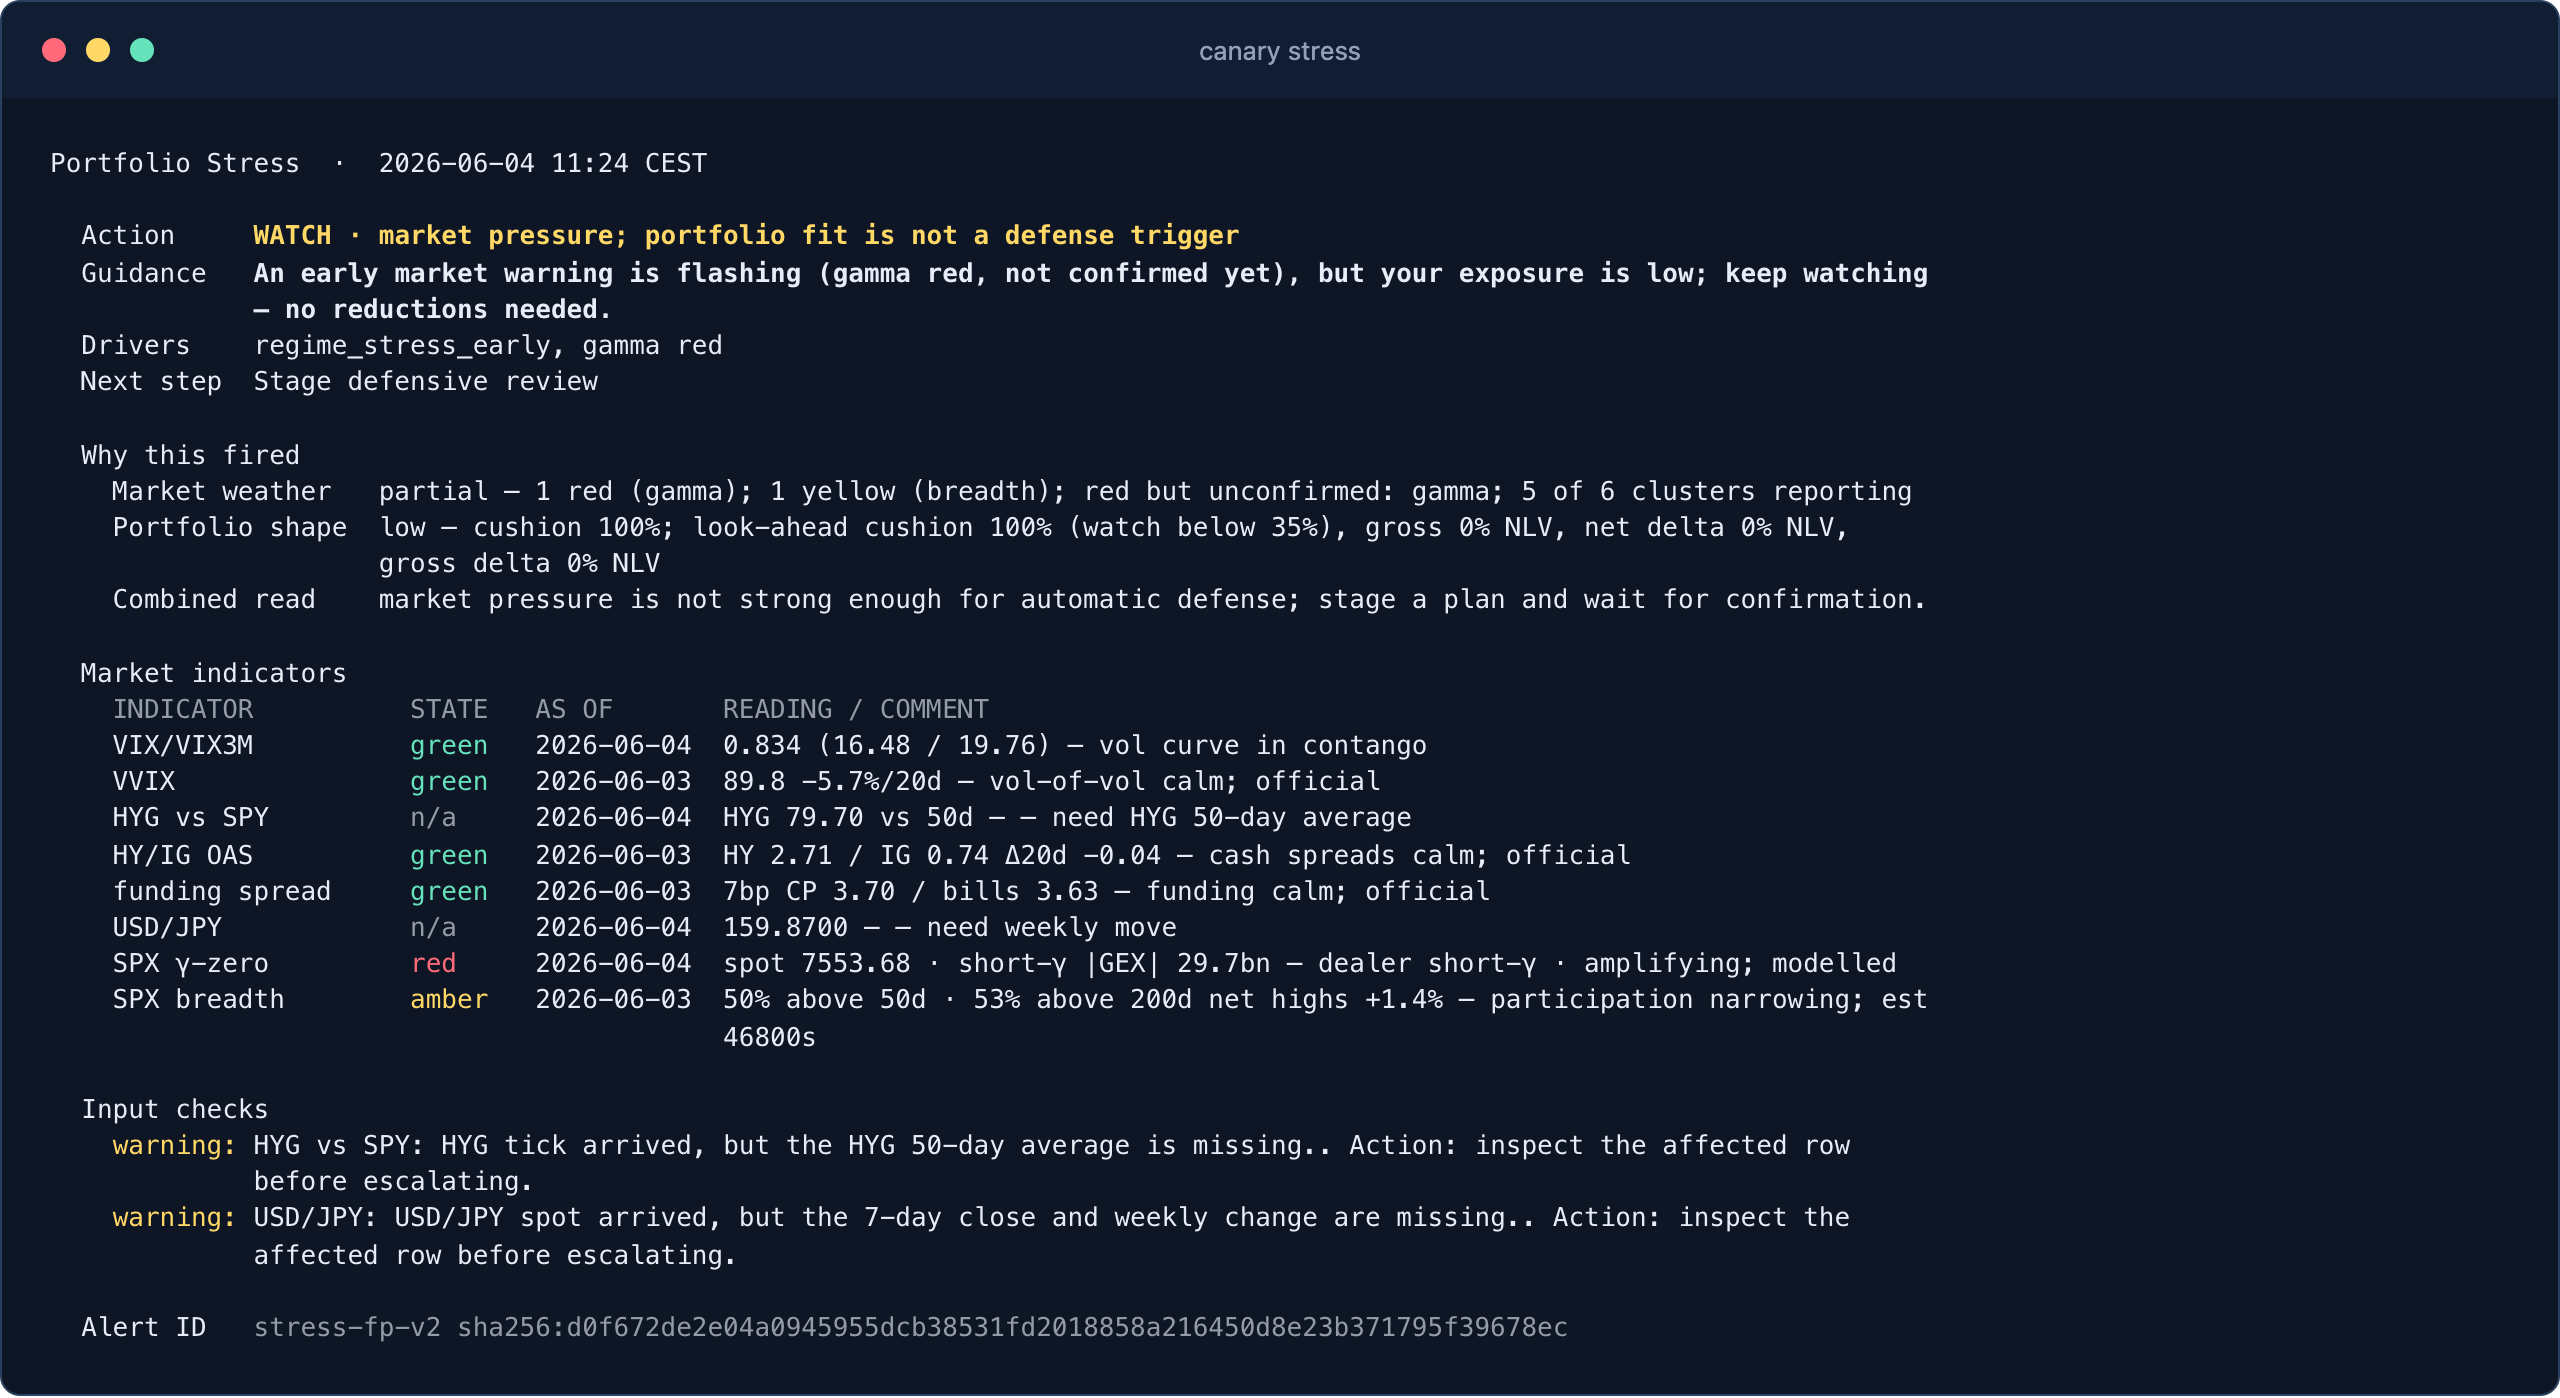
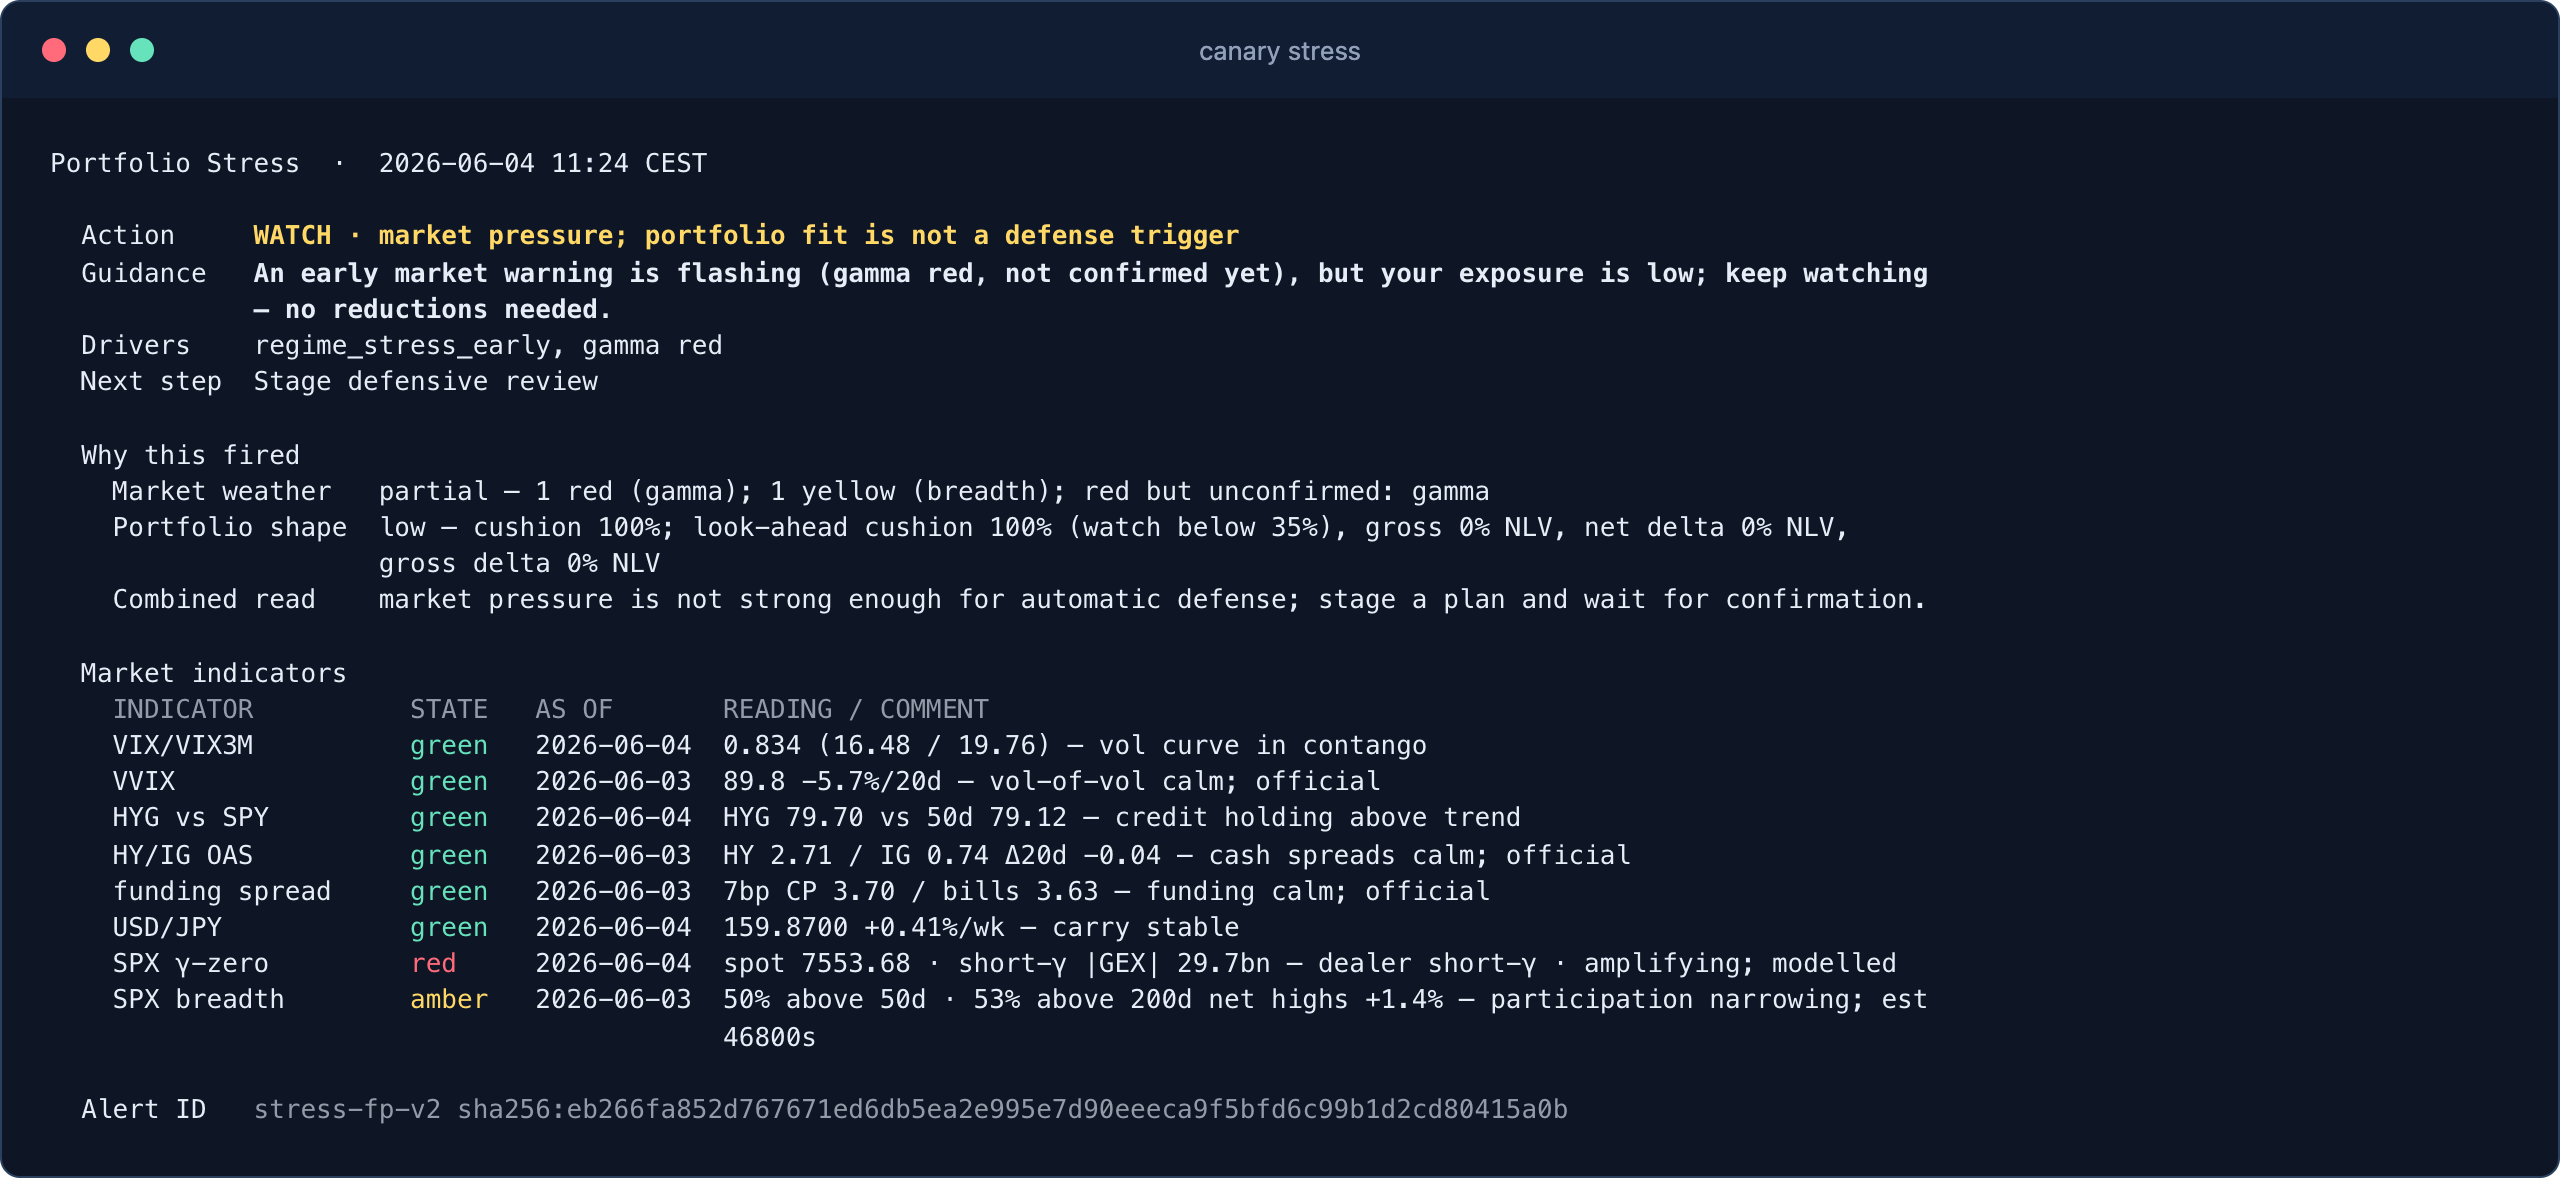
docs(social): healthy-pipeline regime shot and reconciling synthetic desk
The published card and hero embedded the degraded render ('Market state
undefined — snapshot health unavailable', red) because the preview
fixture never set AuthorityHealth and left two indicators unranked; the
fixture now carries a fresh authority projection, per-indicator fresh
cadence verdicts, and complete HYG/USDJPY inputs, so the shot shows the
canary actually working: 'Stress signal present · 6/6 evidence groups
usable · Input health: OK'. positions.png's summary block is now derived
from its own table (513.0 share-equivalents, $39,138.62 dollar delta)
instead of transplanted numbers, and the account/size fixtures join the
synthetic 1.25m-EUR desk used everywhere else.

diff --git a/cmd/_preview/main.go b/cmd/_preview/main.go
@@ -79,27 +79,27 @@ func fixtureAccount() *rpc.AccountResult {
 		AccountID:            "DU0000000",
 		AccountType:          "IB-MARGIN",
 		BaseCurrency:         "EUR",
-		NetLiquidation:       248310.42,
-		BuyingPower:          992841.68,
-		AvailableFunds:       124055.21,
-		ExcessLiquidity:      124055.21,
-		TotalCash:            119084.21,
-		MaintenanceMargin:    24318.10,
-		InitialMargin:        29182.32,
-		GrossPositionValue:   188420.10,
-		UnrealizedPnL:        2418.07,
-		RealizedPnL:          -312.50,
-		Cushion:              0.50,
-		LookAheadInitMargin:  29182.32,
-		LookAheadMaintMargin: 24318.10,
-		LookAheadAvailable:   124055.21,
-		LookAheadExcess:      124055.21,
-		DailyPnL:             f64(1247.30),
-		PnLUnrealizedTotal:   f64(-44485.00),
-		PnLRealizedTotal:     f64(1830.00),
+		NetLiquidation:       1250000.00,
+		BuyingPower:          4800000.00,
+		AvailableFunds:       1100000.00,
+		ExcessLiquidity:      1100000.00,
+		TotalCash:            150000.00,
+		MaintenanceMargin:    25000.00,
+		InitialMargin:        31000.00,
+		GrossPositionValue:   60000.00,
+		UnrealizedPnL:        3113.50,
+		RealizedPnL:          0,
+		Cushion:              0.98,
+		LookAheadInitMargin:  31000.00,
+		LookAheadMaintMargin: 25000.00,
+		LookAheadAvailable:   1100000.00,
+		LookAheadExcess:      1100000.00,
+		DailyPnL:             f64(2340.00),
+		PnLUnrealizedTotal:   f64(25000.00),
+		PnLRealizedTotal:     f64(5000.00),
 		CurrencyExposure: []rpc.CurrencyExposure{
-			{Currency: "USD", NetLiquidationCcy: 92418.07, ExchangeRate: 1.0823, NetLiquidationBase: 85398.92},
-			{Currency: "GBP", NetLiquidationCcy: 12061.40, ExchangeRate: 1.1718, NetLiquidationBase: 14034.83},
+			{Currency: "USD", NetLiquidationCcy: 540000.00, ExchangeRate: 0.9000, NetLiquidationBase: 486000.00},
+			{Currency: "GBP", NetLiquidationCcy: 10000.00, ExchangeRate: 1.1500, NetLiquidationBase: 11500.00},
 		},
 		// AccountResult.DataType is omitempty-emit-empty per the v0.15.0
 		// wire-honesty pass; the field exists on the struct for renderer-
@@ -209,17 +209,21 @@ func fixturePositions() *rpc.PositionsResult {
 				GroupUnrealizedPnL: -705.00,
 			},
 		},
+		// Summary values are derived from the rows above so the rendered
+		// table and summary reconcile: deltas 202 (AAPL) + 405 (NVDA) − 94
+		// (SPY), dollar delta against marks (SPY spot 583.18), greeks as
+		// Σ greek × qty × 100, FX = the 59,161 USD book in EUR × 1%.
 		Portfolio: &rpc.PositionsPortfolio{
-			EffectiveDelta:      f64(1847.0),
-			DollarDelta:         f64(326584.50),
+			EffectiveDelta:      f64(513.0),
+			DollarDelta:         f64(39138.62),
 			DollarDeltaCurrency: "USD",
-			DailyTheta:          f64(-42.18),
+			DailyTheta:          f64(-121.00),
 			DailyThetaCurrency:  "USD",
-			Gamma:               f64(12.4),
-			Vega:                f64(1205.00),
+			Gamma:               f64(19.1),
+			Vega:                f64(654.00),
 			GreeksCoverage:      5,
 			GreeksTotal:         5,
-			FXSensitivityPerPct: f64(-854.32),
+			FXSensitivityPerPct: f64(-546.62),
 			FXBaseCurrency:      "EUR",
 		},
 		AsOf: time.Date(2026, 5, 13, 14, 32, 18, 0, time.UTC),
@@ -343,15 +347,15 @@ func fixtureScan() *rpc.ScanResult {
 // fixtureSize mirrors a typical EUR account sizing a long AAPL trade
 // with a 2R target — covers the full screen including the reward block.
 func fixtureSize() *risk.SizeResult {
-	tgt, r, reward, be := 215.50, 2.0, 4000.0, 1.0/3.0
+	tgt, r, reward, be := 217.50, 2.0, 25000.0, 1.0/3.0
 	return &risk.SizeResult{
 		Symbol: "AAPL", Side: "long",
 		Entry: 207.50, Stop: 202.50, Target: &tgt,
 		RiskPct: 1.0, Lot: 1, FX: 1.0,
-		NLV: 248310.42, BaseCurrency: "EUR",
-		RiskBase: 2483.10, RiskQuote: 2483.10,
+		NLV: 1250000.00, BaseCurrency: "EUR",
+		RiskBase: 12500.00, RiskQuote: 12500.00,
 		PerShareRisk: 5.00,
-		Shares:       496, Notional: 102920.00, MaxLoss: 2480.00,
+		Shares:       2500, Notional: 518750.00, MaxLoss: 12500.00,
 		R: &r, RewardQuote: &reward, BreakevenWinRate: &be,
 		Status: "ok",
 	}
@@ -482,8 +486,8 @@ func fixtureRegime() *rpc.RegimeSnapshotResult {
 		SpecDoc: "https://osauer.dev/canary/docs/internals/regime-dashboard.html",
 		Summary: rpc.RegimeSummary{
 			Label:             "Stress signal present",
-			Evidence:          "3 green clusters / 1 yellow cluster / 1 red cluster / 1 waiting",
-			IndicatorEvidence: "4 green / 1 yellow / 1 red / 2 unranked",
+			Evidence:          "4 green clusters / 1 yellow cluster / 1 red cluster",
+			IndicatorEvidence: "6 green / 1 yellow / 1 red",
 			PunchLine:         "Stress is visible, but not broad enough to dominate the read.",
 			Confidence:        "medium",
 			DominantRisks:     []string{"dealer gamma", "breadth"},
@@ -494,6 +498,7 @@ func fixtureRegime() *rpc.RegimeSnapshotResult {
 				Band:       "green",
 				BandReason: "vol curve in contango",
 				AsOf:       previewAsOf("live", now, rpc.FreshnessLive, "IBKR index ticks"),
+				Freshness:  &rpc.RegimeFreshness{Class: rpc.RegimeFreshnessFresh},
 			},
 			Status:       rpc.RegimeStatusOK,
 			VIX:          f64(16.48),
@@ -511,6 +516,7 @@ func fixtureRegime() *rpc.RegimeSnapshotResult {
 				Band:       "green",
 				BandReason: "vol-of-vol calm",
 				AsOf:       previewDateAsOf("close D-1", officialDate, rpc.FreshnessDerived, "Cboe VVIX daily file"),
+				Freshness:  &rpc.RegimeFreshness{Class: rpc.RegimeFreshnessFresh},
 			},
 			Status:       rpc.RegimeStatusOK,
 			Symbol:       "VVIX",
@@ -523,28 +529,30 @@ func fixtureRegime() *rpc.RegimeSnapshotResult {
 		},
 		HYGSPYDivergence: rpc.RegimeHYGSPYDivergence{
 			RegimeIndicatorMeta: rpc.RegimeIndicatorMeta{
-				Band:       "unranked",
-				BandReason: "need HYG 50-day average",
+				Band:       "green",
+				BandReason: "HYG holding above its 50-day",
 				AsOf:       previewAsOf("live", now, rpc.FreshnessLive, "IBKR ETF ticks"),
+				Freshness:  &rpc.RegimeFreshness{Class: rpc.RegimeFreshnessFresh},
 			},
-			Status:        rpc.RegimeStatusOK,
-			HYGPrice:      f64(79.70),
-			SPYPrice:      f64(751.20),
-			SPY52WHigh:    f64(760.39),
-			SPYPrevClose:  f64(754.24),
-			SPYChange:     f64(751.20 - 754.24),
-			SPYChangePct:  f64((751.20 - 754.24) / 754.24 * 100),
-			HYGDataType:   rpc.MarketDataLive,
-			FieldsMissing: []string{"hyg_50dma"},
-			HYGQuality:    previewQuality(now, rpc.FreshnessLive, rpc.ConfidenceFirm, "HYG tick"),
-			SPYQuality:    previewQuality(now, rpc.FreshnessLive, rpc.ConfidenceFirm, "SPY tick"),
-			Notes:         "HYG (high-yield corporate bond ETF) vs SPY context. Spec thresholds: green when both trending up and HYG above 50-day SMA; yellow when HYG breaks 50-day SMA while SPY within 3% of 52-week high.",
+			Status:       rpc.RegimeStatusOK,
+			HYGPrice:     f64(79.70),
+			HYG50DMA:     f64(79.12),
+			SPYPrice:     f64(751.20),
+			SPY52WHigh:   f64(760.39),
+			SPYPrevClose: f64(754.24),
+			SPYChange:    f64(751.20 - 754.24),
+			SPYChangePct: f64((751.20 - 754.24) / 754.24 * 100),
+			HYGDataType:  rpc.MarketDataLive,
+			HYGQuality:   previewQuality(now, rpc.FreshnessLive, rpc.ConfidenceFirm, "HYG tick"),
+			SPYQuality:   previewQuality(now, rpc.FreshnessLive, rpc.ConfidenceFirm, "SPY tick"),
+			Notes:        "HYG (high-yield corporate bond ETF) vs SPY context. Spec thresholds: green when both trending up and HYG above 50-day SMA; yellow when HYG breaks 50-day SMA while SPY within 3% of 52-week high.",
 		},
 		CreditSpreads: rpc.RegimeCreditSpreads{
 			RegimeIndicatorMeta: rpc.RegimeIndicatorMeta{
 				Band:       "green",
 				BandReason: "cash spreads calm",
 				AsOf:       previewDateAsOf("close D-1", officialDate, rpc.FreshnessDerived, "FRED ICE BofA OAS"),
+				Freshness:  &rpc.RegimeFreshness{Class: rpc.RegimeFreshnessFresh},
 			},
 			Status:        rpc.RegimeStatusOK,
 			HYOAS:         f64(2.71),
@@ -563,6 +571,7 @@ func fixtureRegime() *rpc.RegimeSnapshotResult {
 				Band:       "green",
 				BandReason: "funding calm",
 				AsOf:       previewDateAsOf("close D-1", officialDate, rpc.FreshnessDerived, "FRED CP and T-bill rates"),
+				Freshness:  &rpc.RegimeFreshness{Class: rpc.RegimeFreshnessFresh},
 			},
 			Status:         rpc.RegimeStatusOK,
 			CP3M:           f64(3.70),
@@ -577,23 +586,26 @@ func fixtureRegime() *rpc.RegimeSnapshotResult {
 		},
 		USDJPY: rpc.RegimeUSDJPY{
 			RegimeIndicatorMeta: rpc.RegimeIndicatorMeta{
-				Band:       "unranked",
-				BandReason: "need weekly move",
+				Band:       "green",
+				BandReason: "yen stable on the week",
 				AsOf:       previewAsOf("live", now, rpc.FreshnessLive, "IBKR FX tick"),
+				Freshness:  &rpc.RegimeFreshness{Class: rpc.RegimeFreshnessFresh},
 			},
-			Status:        rpc.RegimeStatusOK,
-			Symbol:        "USD.JPY",
-			Last:          f64(159.8700),
-			DataType:      rpc.MarketDataLive,
-			FieldsMissing: []string{"close_7d_ago", "weekly_change_pct"},
-			LastQuality:   previewQuality(now, rpc.FreshnessLive, rpc.ConfidenceFirm, "USD.JPY midpoint"),
-			Notes:         "USD/JPY exchange rate. Spec thresholds: stable or <1% weekly move (green); 1-2% weekly yen strength (yellow); >2% in 3 days or >3% in a week (red).",
+			Status:       rpc.RegimeStatusOK,
+			Symbol:       "USD.JPY",
+			Last:         f64(159.8700),
+			Close7DAgo:   f64(159.2100),
+			WeeklyChange: f64((159.87 - 159.21) / 159.21 * 100),
+			DataType:     rpc.MarketDataLive,
+			LastQuality:  previewQuality(now, rpc.FreshnessLive, rpc.ConfidenceFirm, "USD.JPY midpoint"),
+			Notes:        "USD/JPY exchange rate. Spec thresholds: stable or <1% weekly move (green); 1-2% weekly yen strength (yellow); >2% in 3 days or >3% in a week (red).",
 		},
 		GammaZero: rpc.RegimeGammaZero{
 			RegimeIndicatorMeta: rpc.RegimeIndicatorMeta{
 				Band:       "red",
 				BandReason: "dealer short-γ · amplifying",
 				AsOf:       previewAsOf("cached 11:23", now.Add(-time.Minute), rpc.FreshnessModelled, "gamma.zero_spx"),
+				Freshness:  &rpc.RegimeFreshness{Class: rpc.RegimeFreshnessFresh},
 			},
 			Status: rpc.RegimeStatusOK,
 			Envelope: rpc.GammaZeroSPXResult{
@@ -643,6 +655,7 @@ func fixtureRegime() *rpc.RegimeSnapshotResult {
 				Band:       "yellow",
 				BandReason: "participation narrowing",
 				AsOf:       previewDateAsOf("close D-1", officialDate, rpc.FreshnessDerived, "local S&P 500 breadth cache"),
+				Freshness:  &rpc.RegimeFreshness{Class: rpc.RegimeFreshnessFresh},
 			},
 			Status: rpc.RegimeStatusOK,
 			Envelope: rpc.BreadthSPXResult{
@@ -667,42 +680,31 @@ func fixtureRegime() *rpc.RegimeSnapshotResult {
 	}
 	r.Composite = rpc.RegimeComposite{
 		Verdict:              "Stress signal present",
-		GreenCount:           4,
+		GreenCount:           6,
 		YellowCount:          1,
 		RedCount:             1,
-		RankedCount:          6,
-		UnrankedCount:        2,
-		ClusterGreenCount:    3,
+		RankedCount:          8,
+		UnrankedCount:        0,
+		ClusterGreenCount:    4,
 		ClusterYellowCount:   1,
 		ClusterRedCount:      1,
-		ClusterRankedCount:   5,
-		ClusterUnrankedCount: 1,
-	}
-	r.WarningDetails = []rpc.RegimeWarning{
-		{
-			Code:     "missing_required_fields",
-			Scope:    "HYG vs SPY",
-			Severity: "warning",
-			Message:  "HYG tick arrived, but the HYG 50-day average is missing.",
-			Impact:   "The ETF credit proxy is shown for context but does not vote in the composite.",
-			Action:   "Refresh historical bars or wait for the next cache build.",
-		},
-		{
-			Code:     "missing_required_fields",
-			Scope:    "USD/JPY",
-			Severity: "warning",
-			Message:  "USD/JPY spot arrived, but the 7-day close and weekly change are missing.",
-			Impact:   "The FX carry proxy is shown for context but does not vote in the composite.",
-			Action:   "Refresh FX historical bars.",
-		},
+		ClusterRankedCount:   6,
+		ClusterUnrankedCount: 0,
 	}
 	r.DataQuality = []rpc.DataQualityHealth{{
-		Surface:         "regime",
-		Status:          "partial",
-		Summary:         "partial: credit, fx",
-		PartialClusters: []string{"credit", "fx"},
-		AsOf:            r.AsOf,
+		Surface: "regime",
+		Status:  "ok",
+		Summary: "ok",
+		AsOf:    r.AsOf,
 	}}
+	// Without an authority projection the renderer treats the snapshot as
+	// health-unavailable and demotes the whole read to retained context.
+	lastSuccess := now.Add(-time.Minute)
+	r.AuthorityHealth = &rpc.RegimeAuthorityHealth{
+		Status:                rpc.RegimeAuthorityFresh,
+		LastSuccessAt:         &lastSuccess,
+		LastSuccessAgeSeconds: ptrInt64(60),
+	}
 	r.SourceHealth = rpc.BuildRegimeSourceHealth(r, r.AsOf)
 	r.Lifecycle = rpc.BuildRegimeLifecycle(r)
 	r.Fingerprint = rpc.BuildRegimeFingerprint(r)
